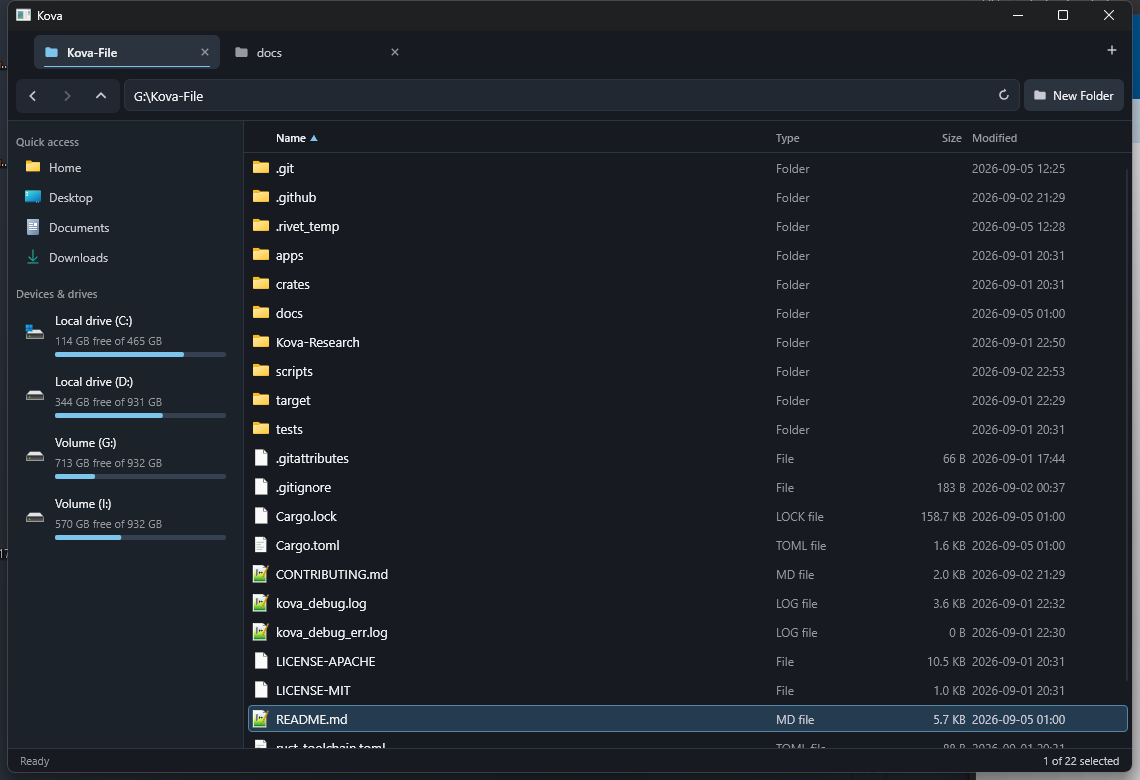
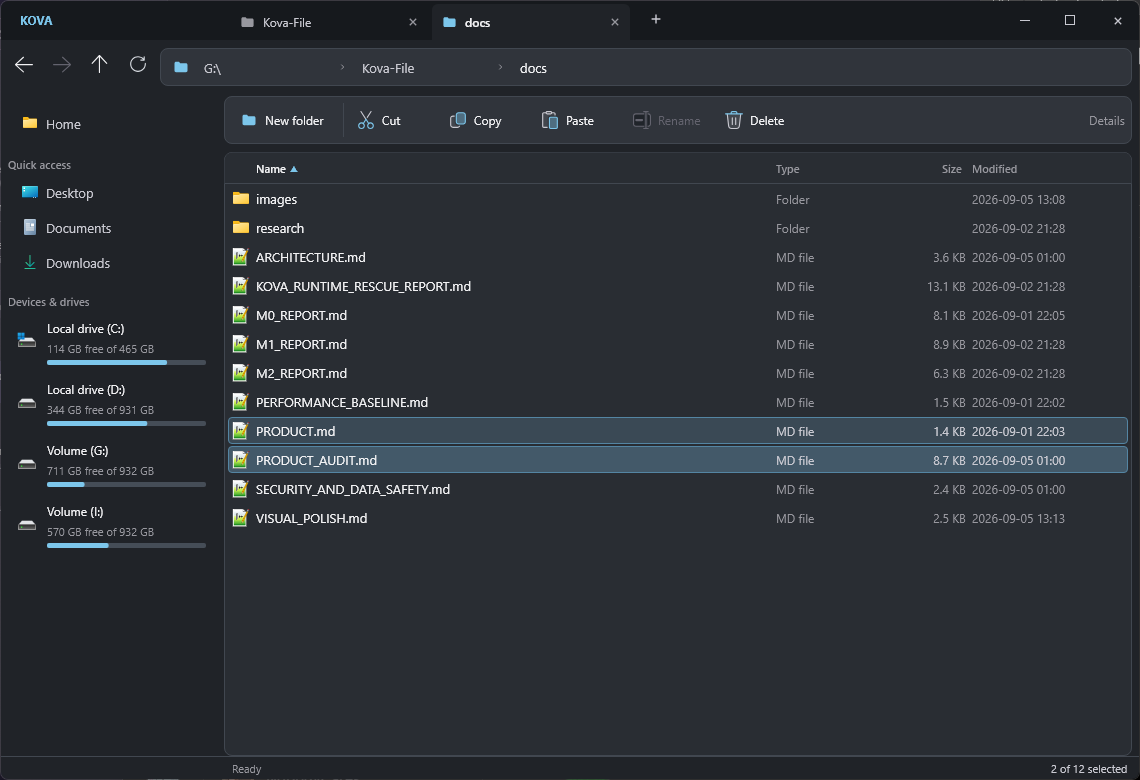
docs: record desktop polish runtime checks and release screenshots

diff --git a/docs/VISUAL_POLISH.md b/docs/VISUAL_POLISH.md
@@ -1,14 +1,44 @@
-# Visual refinement
+# Integrated desktop polish
 
-UI-only follow-up to the product audit: folder glyphs and larger close controls
-in tabs, a single navigation-button surface, clearer text hierarchy, denser drive
-cards, refined column widths and outlined selections that reflect list focus.
-No file-operation, navigation or native Shell code changed.
+The caption and tabs now share one compact header, with working minimize,
+maximize/restore and close controls. Empty caption space supports mouse dragging
+and double-click maximize; Slint/winit handles the frameless resize border.
+No Win32 subclass or raw handle hook was introduced. Windows 11 DWM provides rounded window corners. Native popup menus opt into UXTheme dark mode; the optional exports are version-gated (Windows 10 1903+) and their library reference lives with the event loop. Every new unsafe block documents its safety conditions.
 
-The real release application was checked at 1140x780 and 780x550, including tab
-creation/switching, address navigation, selection and opening/cancelling the New
-Folder dialog. Both sizes retain readable controls and working scroll areas.
+The Files-inspired layout separates navigation from file commands: clickable
+path segments (last three ancestors), Ctrl+L full-path editing with Escape cancel,
+a responsive New Folder/Cut/Copy/Paste/Rename/Delete bar, an inset details surface,
+neutral charcoal tokens, denser sidebar and aligned drive usage bars. Existing
+file operations, virtualized models and native Shell context menus are retained.
+Nine MIT-licensed Files icon geometries are adapted with
+[attribution and full license](../apps/kova-desktop/ui/third-party/README.md).
+
+## Verification (2026-09-05)
+
+Real release application, actual mouse/keyboard input:
+
+- Startup and caption close/exit; minimize, maximize, restore, double-click
+  maximize, caption drag and corner resize all passed.
+- 1140x780 and 780x550 rendering inspected. Tabs create/switch/close, path
+  breadcrumbs, address Enter/Escape, Back/Forward/Parent, single/Ctrl selection,
+  sorting, unavailable-path error and dialog focus/cancel checked.
+- Command-bar New Folder and Rename confirmed by filesystem changes; Copy
+  confirmed by CF_HDROP; Paste/cut-move confirmed by destination contents and
+  source removal; Delete confirmed in the Windows Recycle Bin. Clipboard restored.
+- Native multi-selection Shell menu and installed 7-Zip submenu opened successfully
+  after the custom caption change; native dark menu and dark 7-Zip submenu were visually verified after theme opt-in. Rounded outer corners were inspected in the final release screenshots.
+- All five gates passed: fmt, check (all targets), tests (45 passed, 3 intentionally
+  ignored), clippy (all targets/features, warnings denied), release build.
+
+NOT VERIFIED in this follow-up: Windows 10 runtime, mixed-DPI monitors, Windows
+Snap flyout on maximize hover, Explorer clipboard interoperability and Properties
+retest. Earlier product-audit results are historical; see [audit](PRODUCT_AUDIT.md).
+Thumbnail/grid views, split panes and cloud features are not part of this change.
 
 ![Release window](images/visual-polish.png)
 
-[Compact window](images/visual-polish-compact.png)
+[Compact window](images/visual-polish-compact.png) · [Dialog](images/visual-polish-dialog.png)
+
+[Dark native Shell menu](images/visual-polish-shell-menu.png)
+
+Implementation references: [Microsoft DWM corner guidance](https://learn.microsoft.com/en-us/windows/apps/desktop/modernize/ui/apply-rounded-corners) and [Microsoft PowerToys native dark-mode integration](https://github.com/microsoft/PowerToys/blob/main/src/modules/ZoomIt/ZoomIt/Utility.cpp). Menu colors remain Windows-rendered; third-party owner-drawn items may choose their own appearance. UXTheme ordinals are private APIs and fall back when unavailable.
